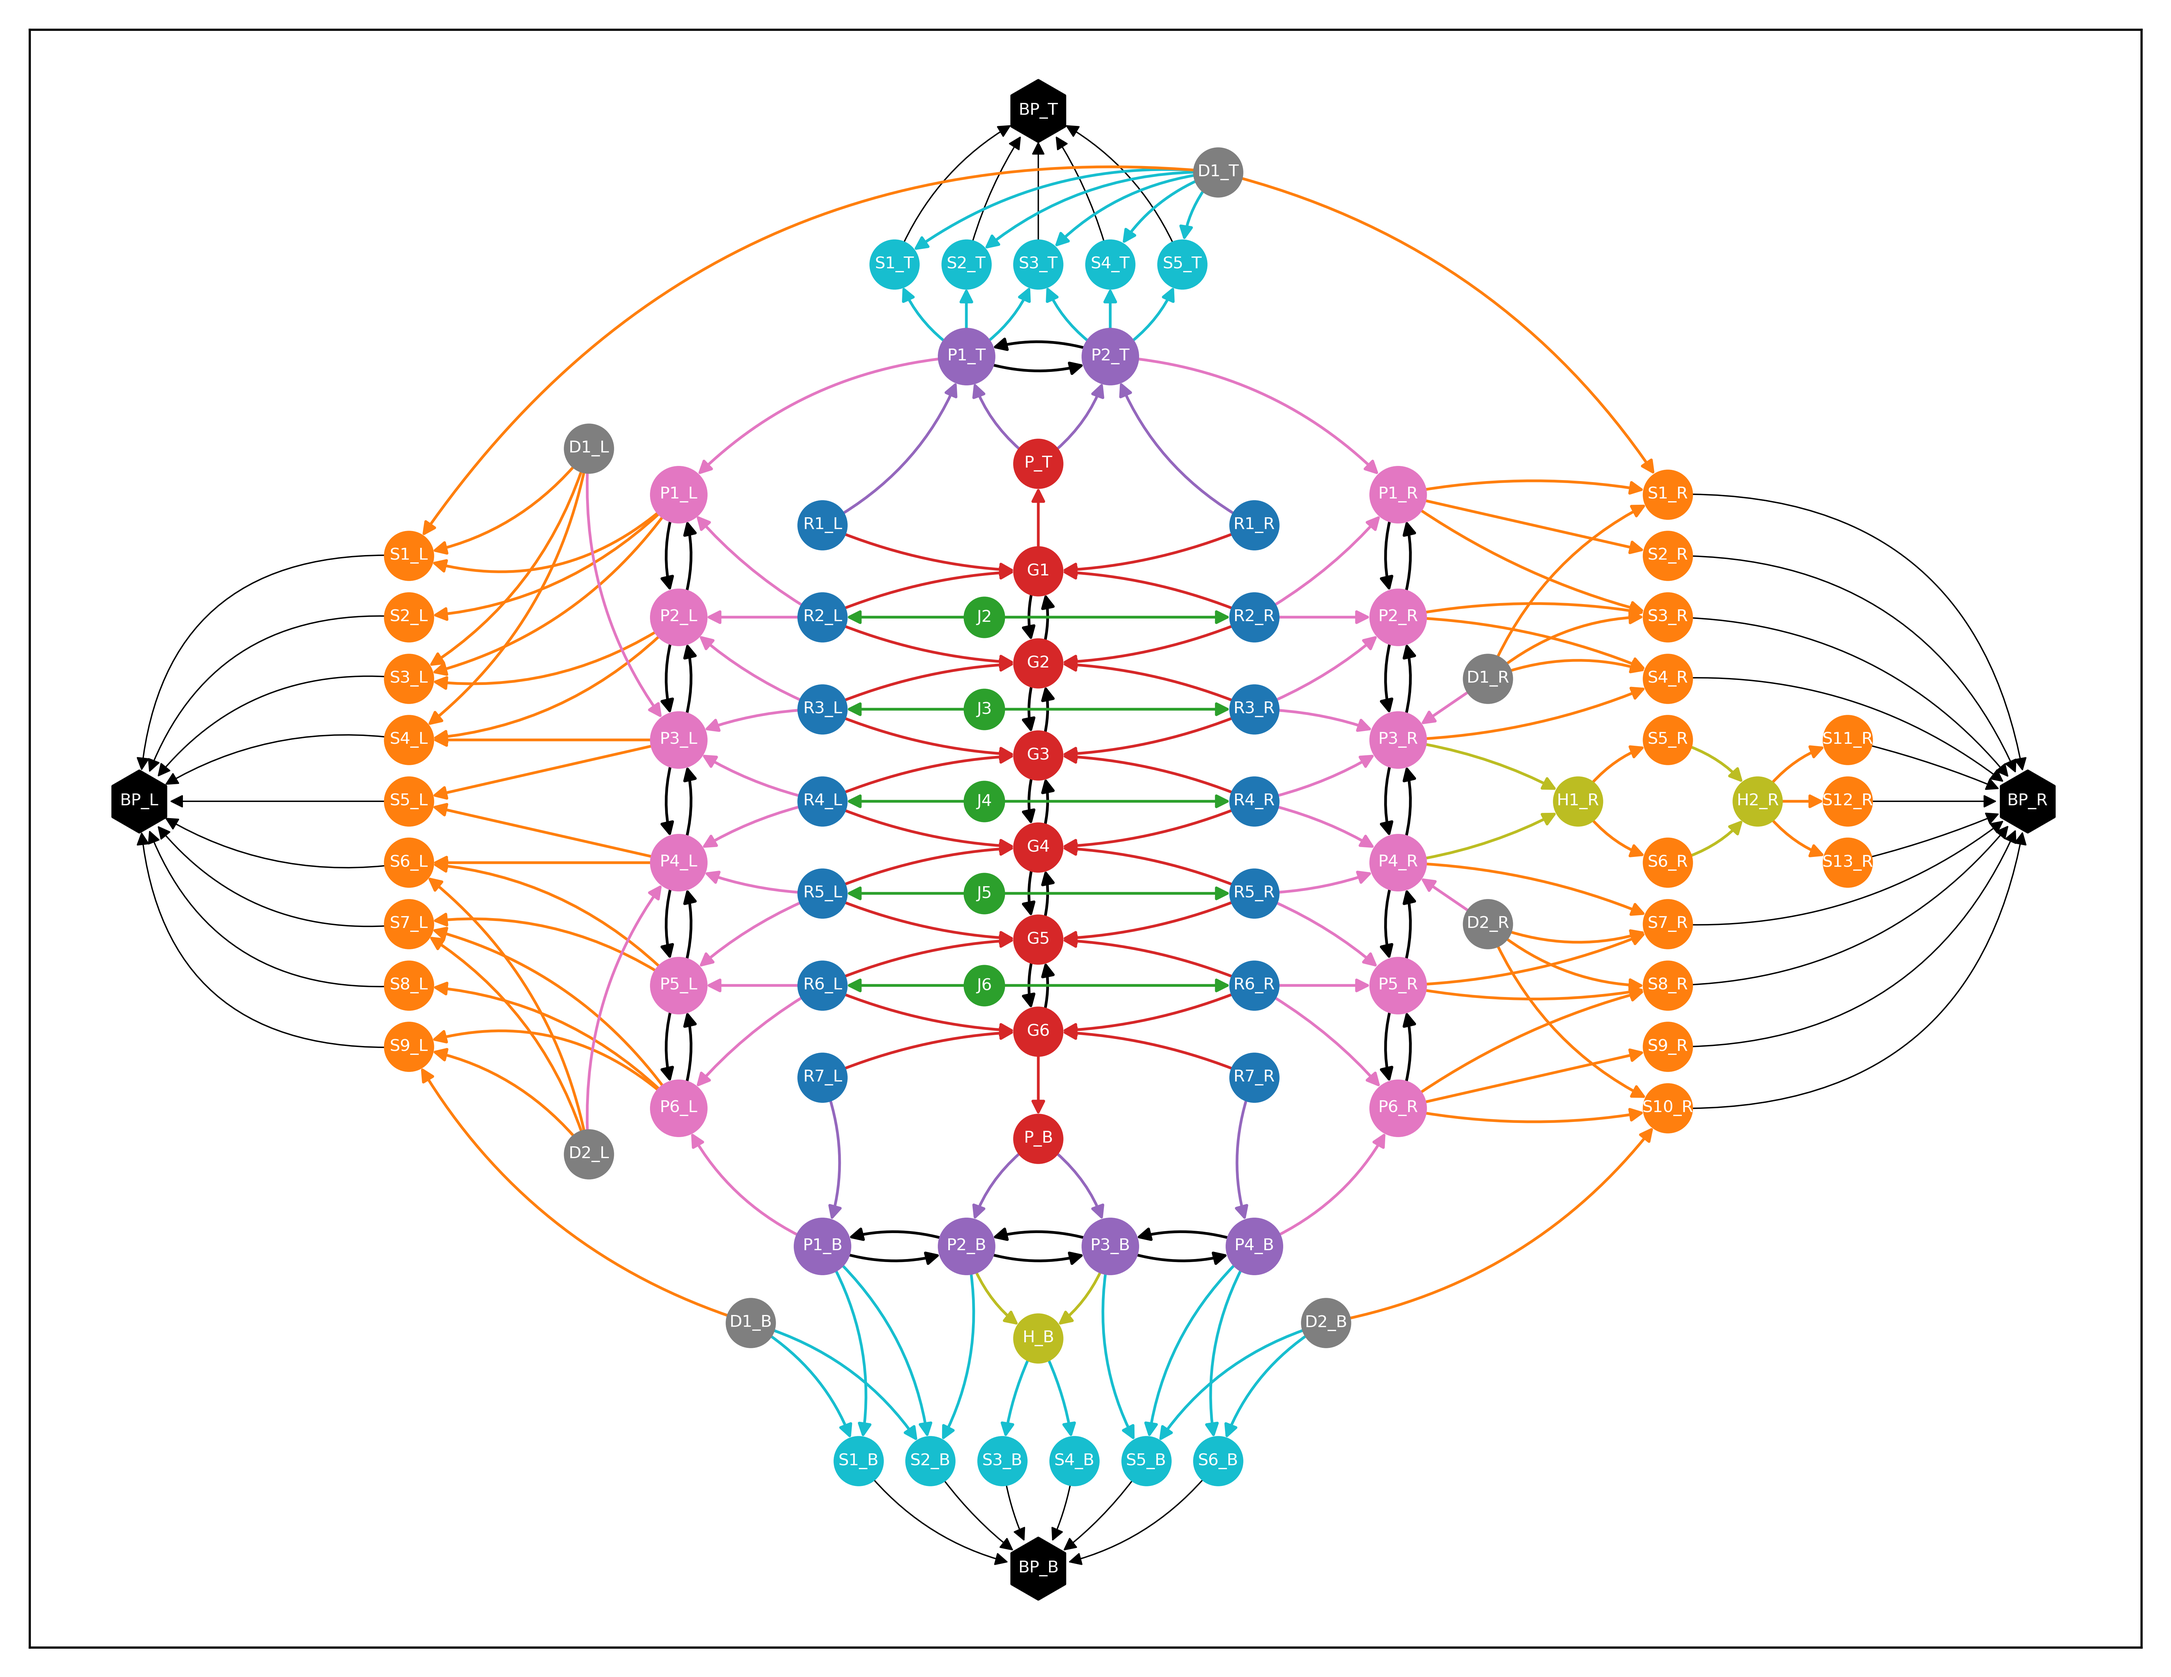
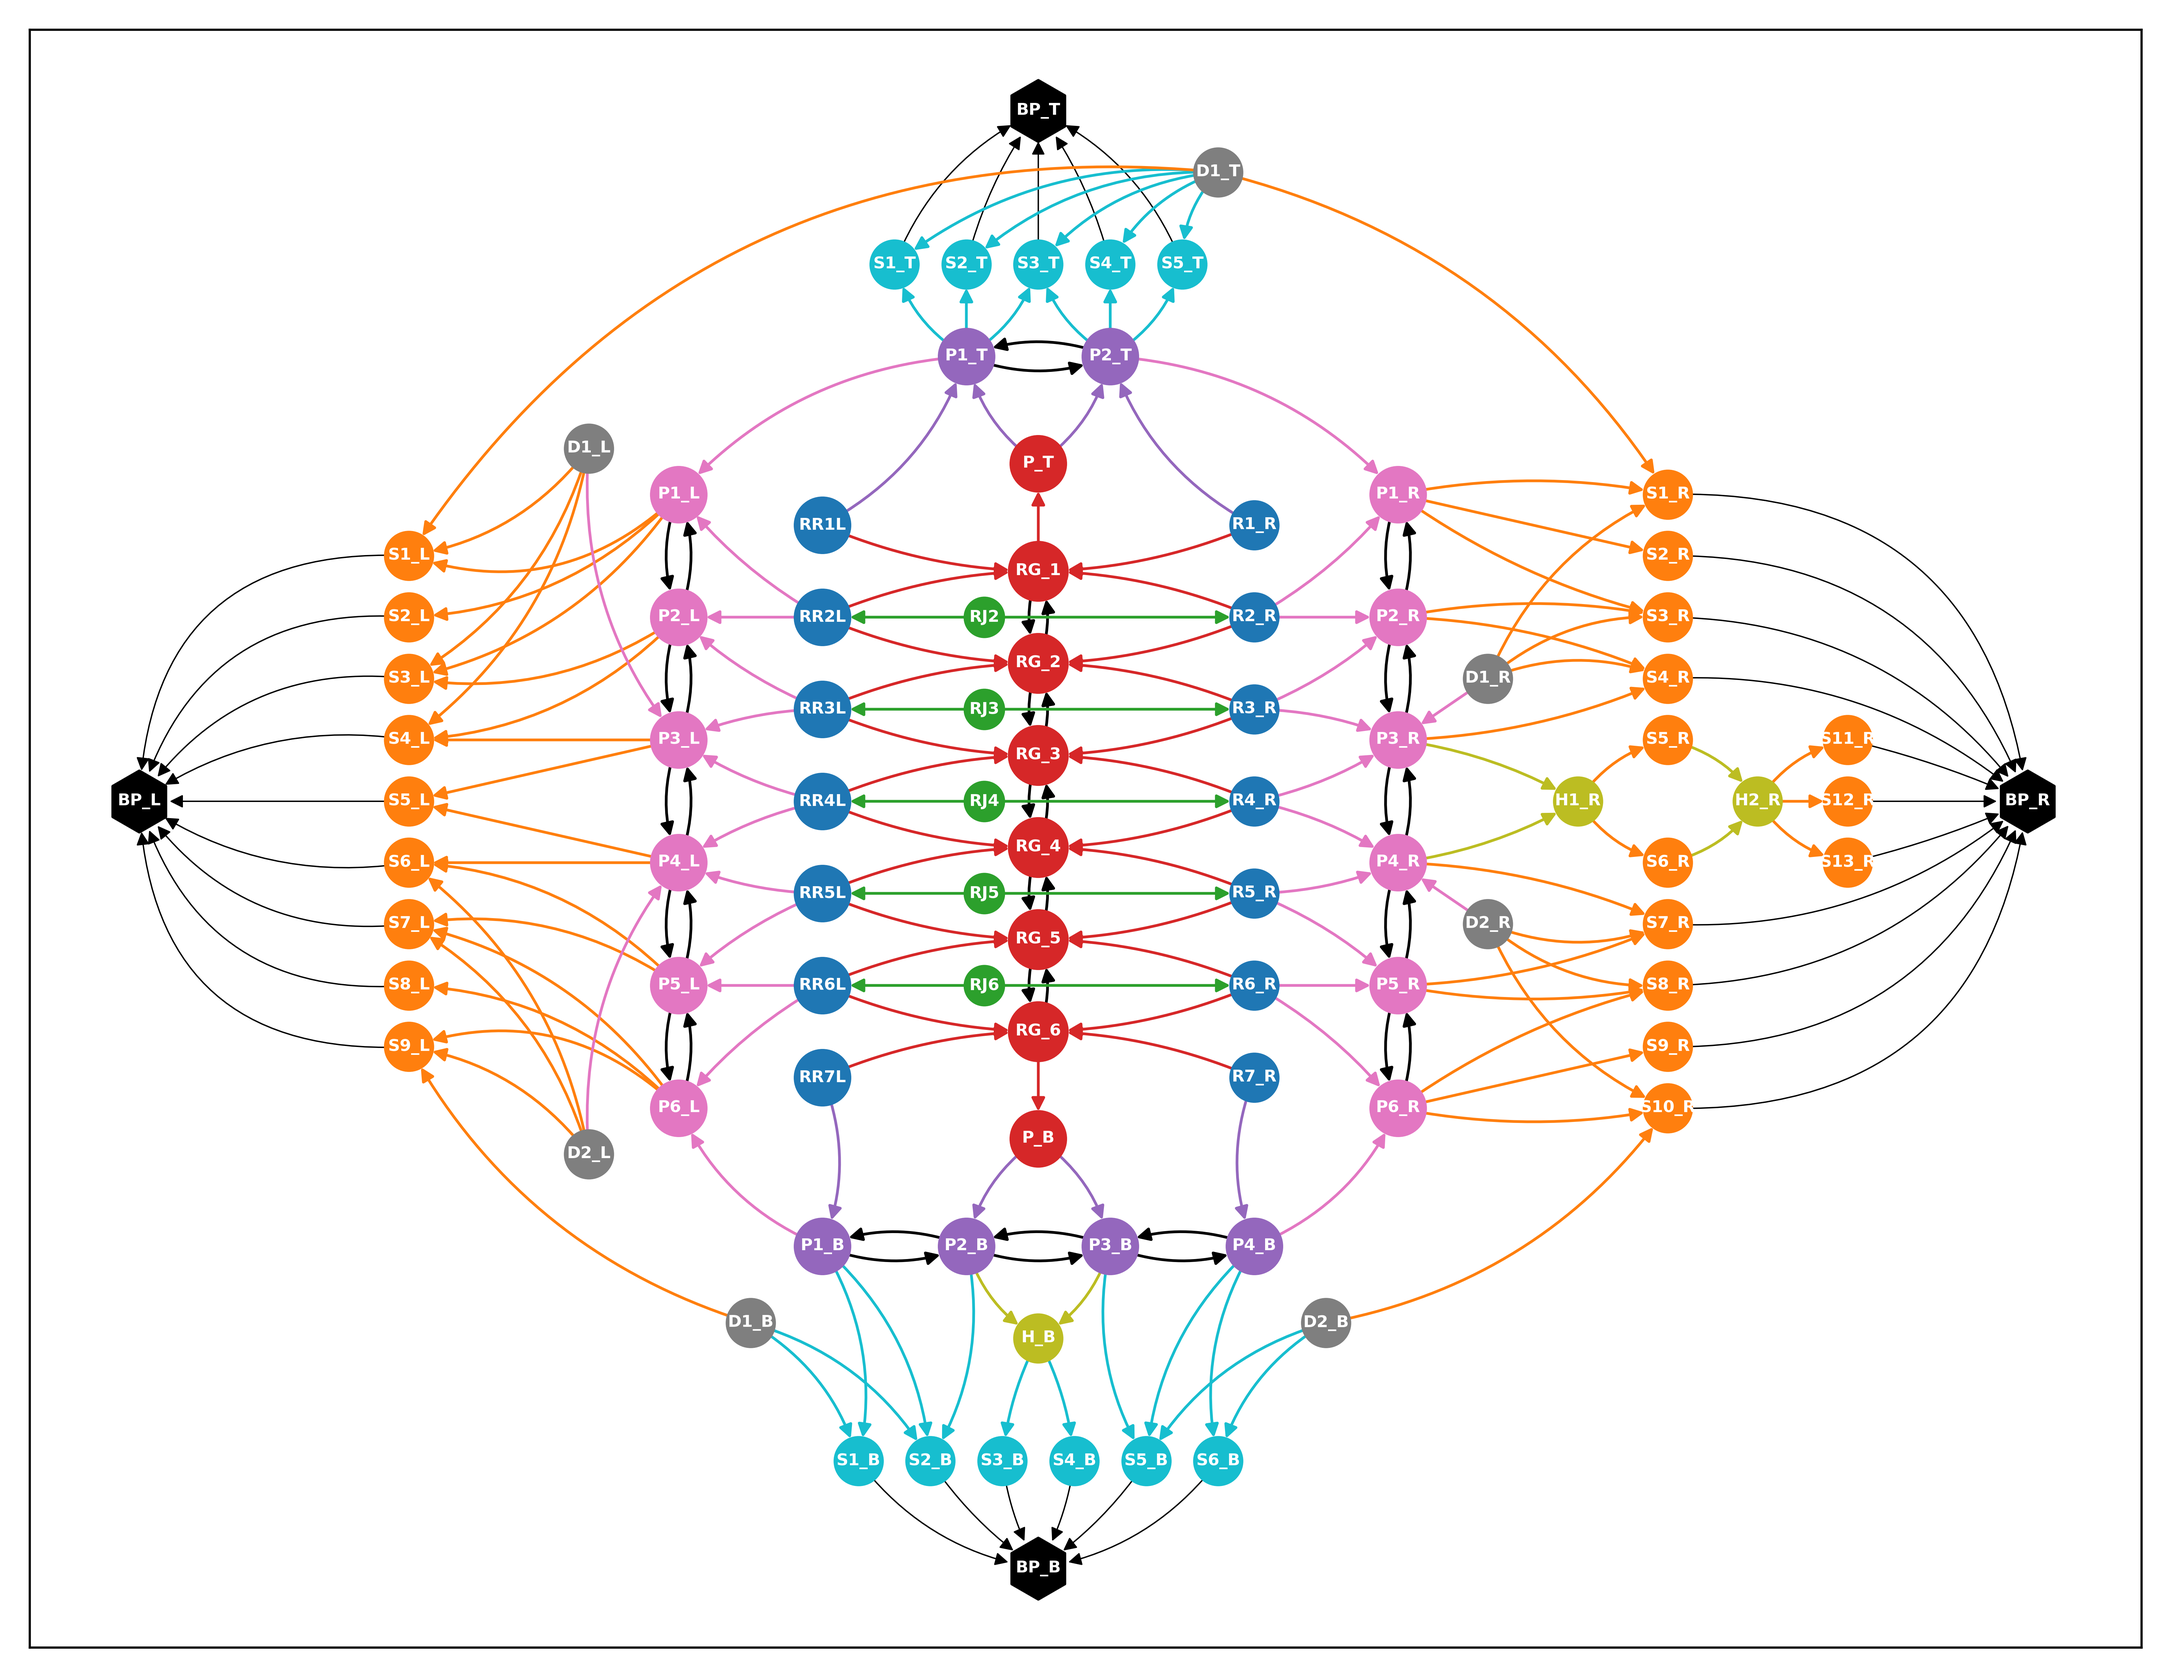
updated node names (roof start)

diff --git a/main.py b/main.py
@@ -123,7 +123,7 @@ def draw_graph(G, pos_fixed, filename, plt_show=False):
             arrows=True,
         )
 
-    nx.draw_networkx_labels(G, pos, font_size=6, font_color="white")
+    nx.draw_networkx_labels(G, pos, font_size=6, font_color="white", font_weight="bold")
 
     f = plt.gcf()
     f.tight_layout()
@@ -156,7 +156,10 @@ def build_full_graph(folder, filename, draw=False, show=False):
 
     if draw:
         draw_graph(
-            G=G, pos_fixed=get_node_pos(G), filename="graphs_out/{}".format(filename), plt_show=show
+            G=G,
+            pos_fixed=get_node_pos(G),
+            filename="graphs_out/{}".format(filename),
+            plt_show=show,
         )
 
     return G
@@ -177,6 +180,8 @@ def build_member_subgraph(G, remove_members, draw=False, show=False):
                 plt_show=show,
             )
 
+        return K
+
 
 if __name__ == "__main__":
 
@@ -185,4 +190,4 @@ if __name__ == "__main__":
     remove_members = ["P1_B"]
     # remove_members = G.nodes()
 
-    build_member_subgraph(G=G, remove_members=remove_members, draw=True, show=True)
+    # K = build_member_subgraph(G=G, remove_members=remove_members, draw=True, show=True)
